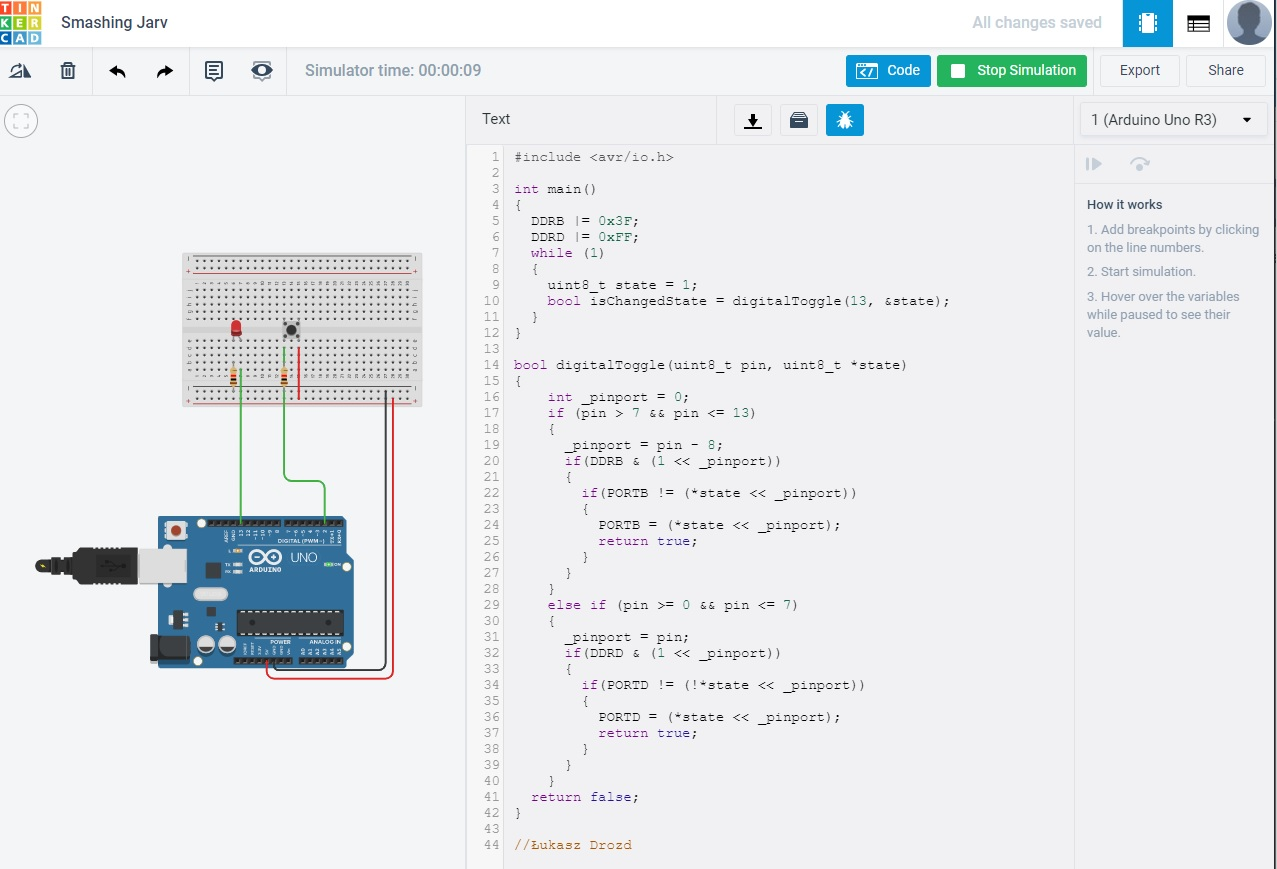
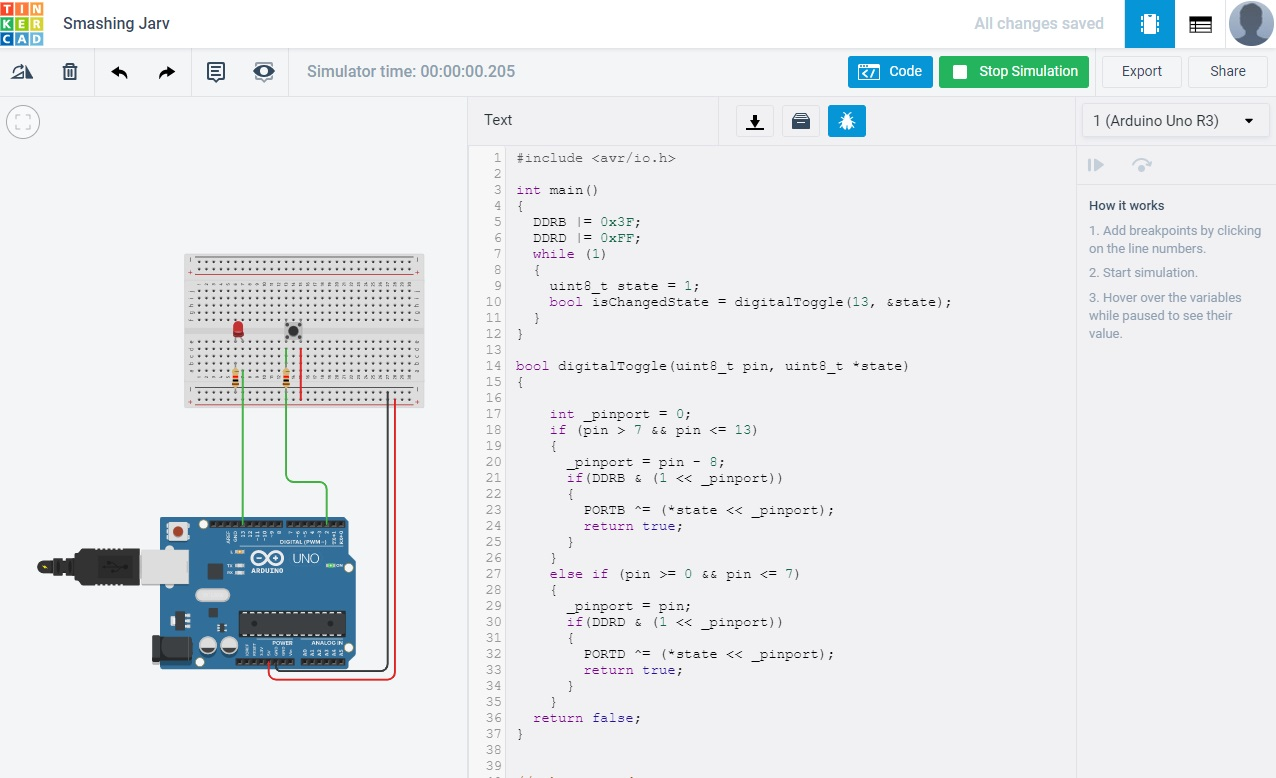
Fix zadanie 3.1

diff --git a/Zadanie-3-1/src/main.cpp b/Zadanie-3-1/src/main.cpp
@@ -13,17 +13,15 @@ int main()
 
 bool digitalToggle(uint8_t pin, uint8_t *state)
 {
+  
     int _pinport = 0;
     if (pin > 7 && pin <= 13)
     {
       _pinport = pin - 8;
       if(DDRB & (1 << _pinport))
       { 
-        if(PORTB != (*state << _pinport))
-        {
-      	  PORTB = (*state << _pinport);
-          return true;
-        }
+      	PORTB ^= (*state << _pinport);
+        return true;
       }
     }
     else if (pin >= 0 && pin <= 7)
@@ -31,12 +29,35 @@ bool digitalToggle(uint8_t pin, uint8_t *state)
       _pinport = pin;
       if(DDRD & (1 << _pinport))
       { 
-        if(PORTD != (!*state << _pinport))
-        {
-      	  PORTD = (*state << _pinport);
-          return true;
-        }
+      	PORTD ^= (*state << _pinport);
+        return true;
       }
     }
   return false;
 }
+
+/*bool digitalToggle(uint8_t pin, uint8_t *state)
+{
+  
+    int _pinport = 0;
+    if (pin > 7 && pin <= 13)
+    {
+      _pinport = pin - 8;
+      if(DDRB & (1 << _pinport))
+      { 
+      	PORTB = (*state << _pinport);
+        return true;
+      }
+    }
+    else if (pin >= 0 && pin <= 7)
+    {
+      _pinport = pin;
+      if(DDRD & (1 << _pinport))
+      { 
+      	PORTD = (*state << _pinport);
+        return true;
+      }
+    }
+  return false;
+}
+*/
